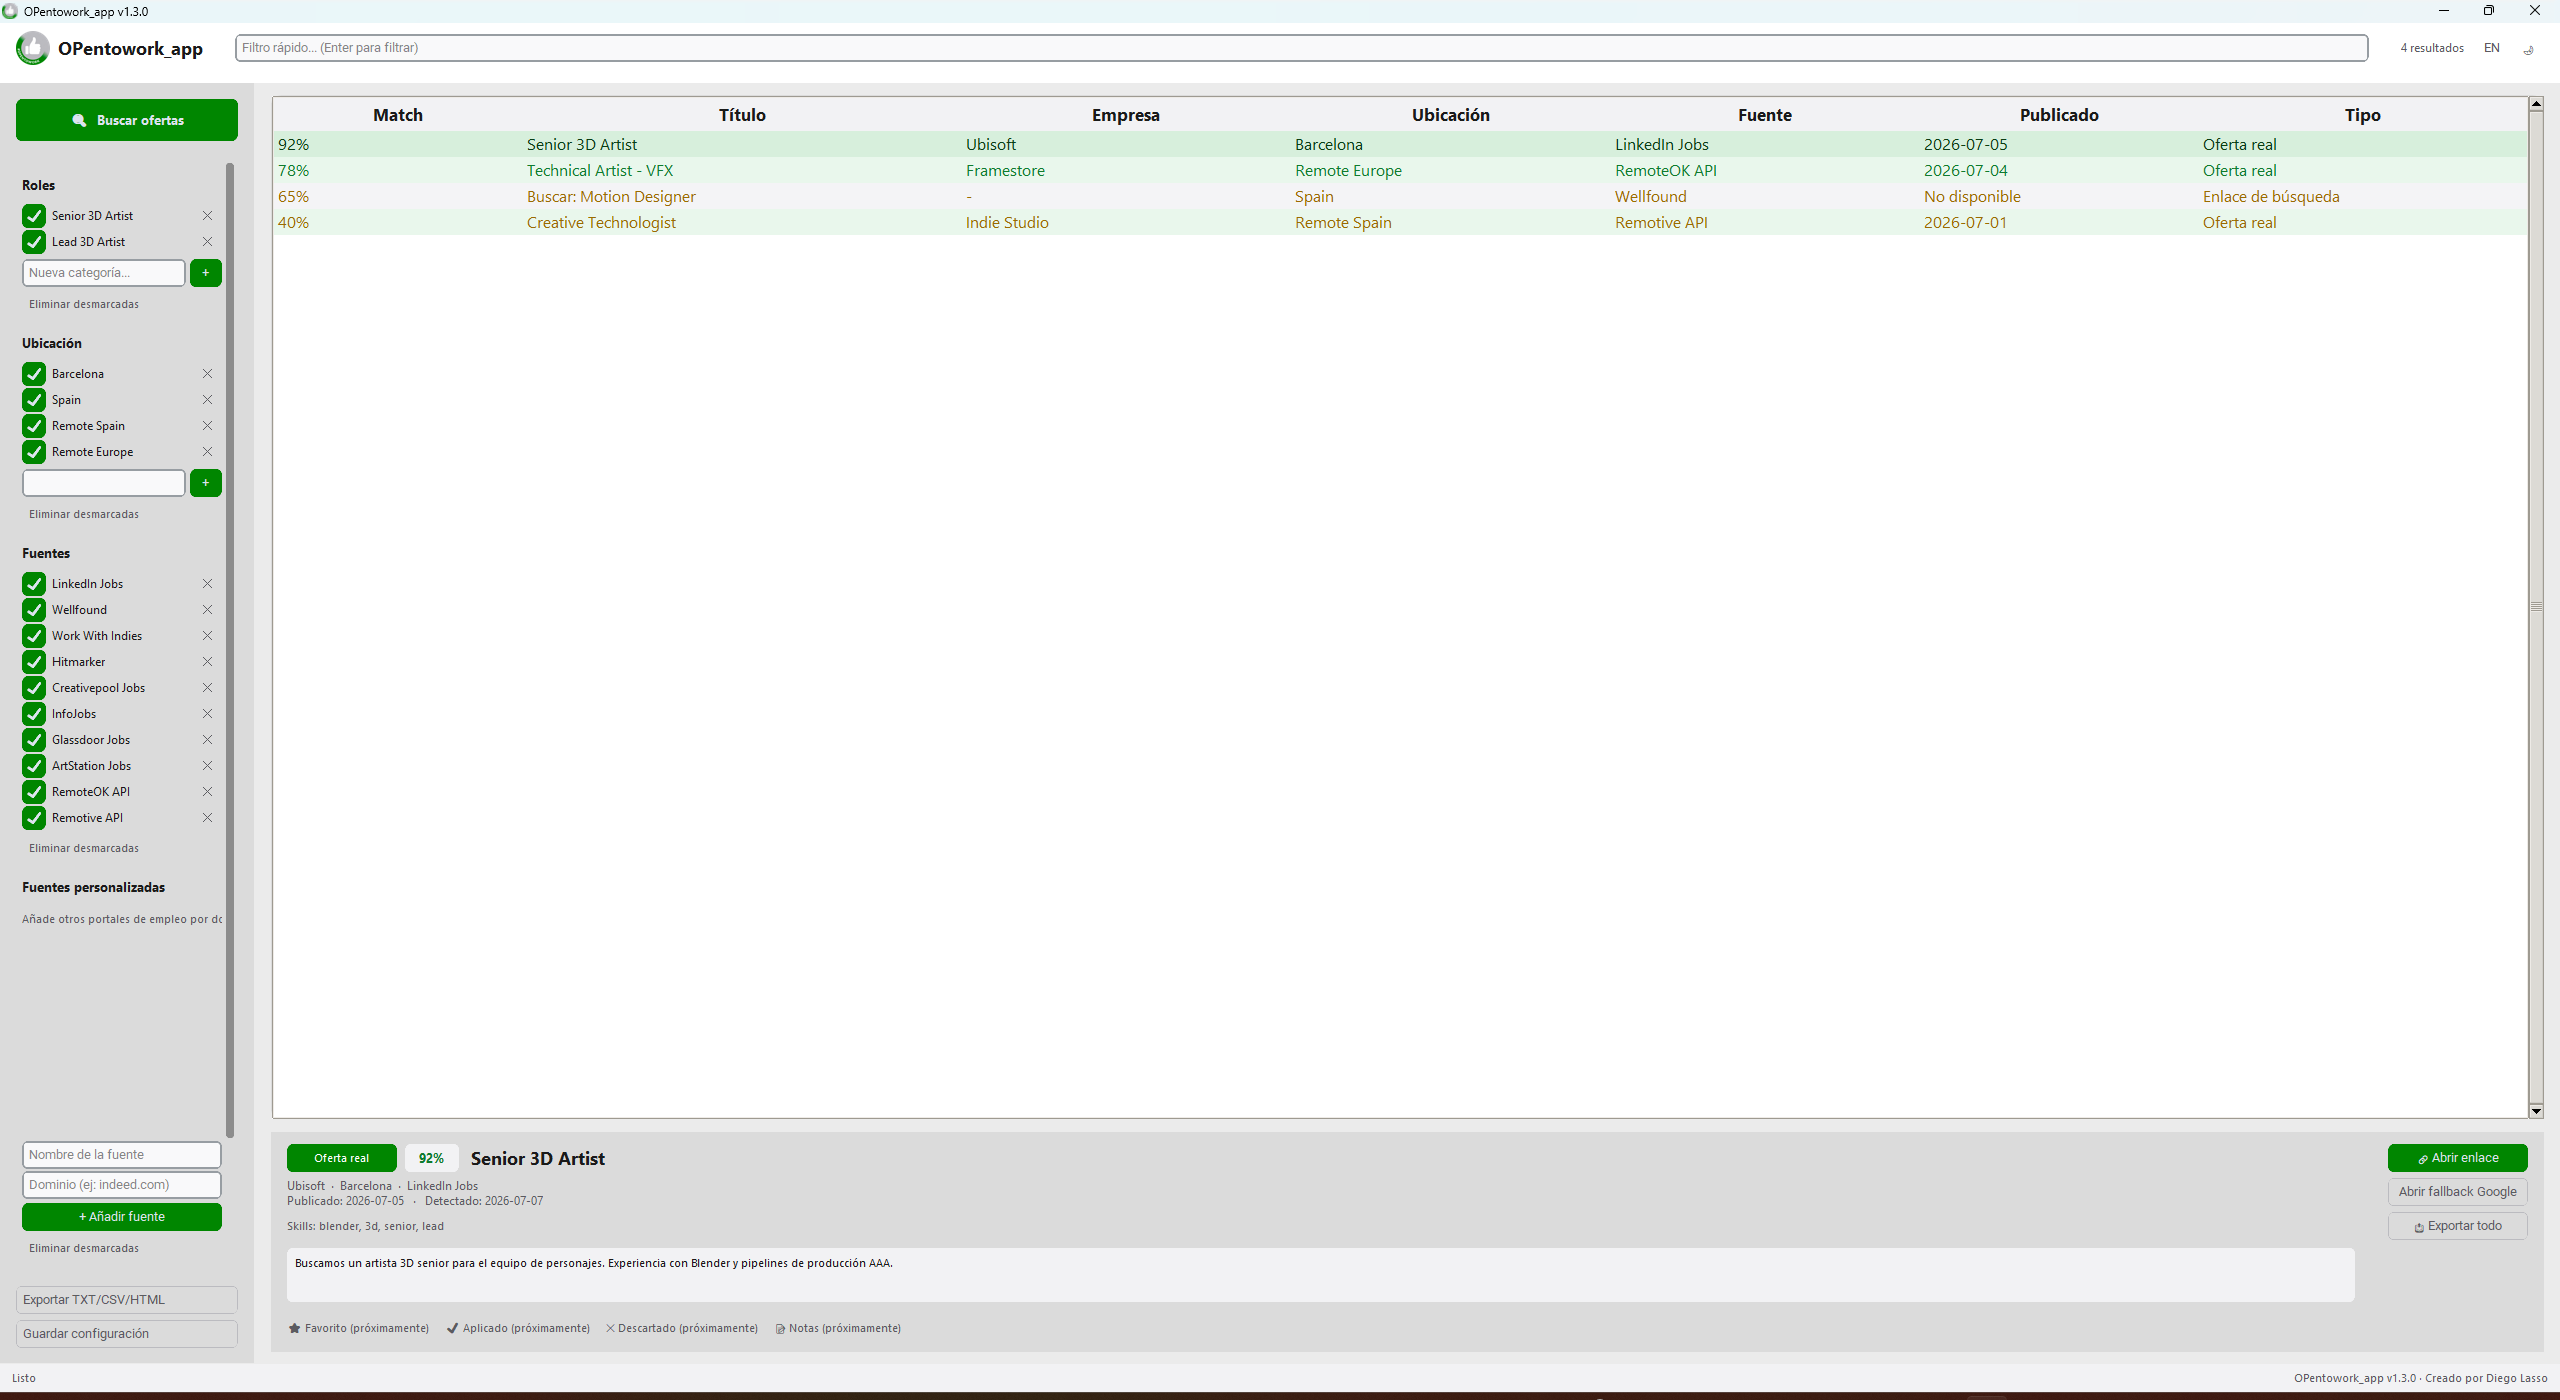
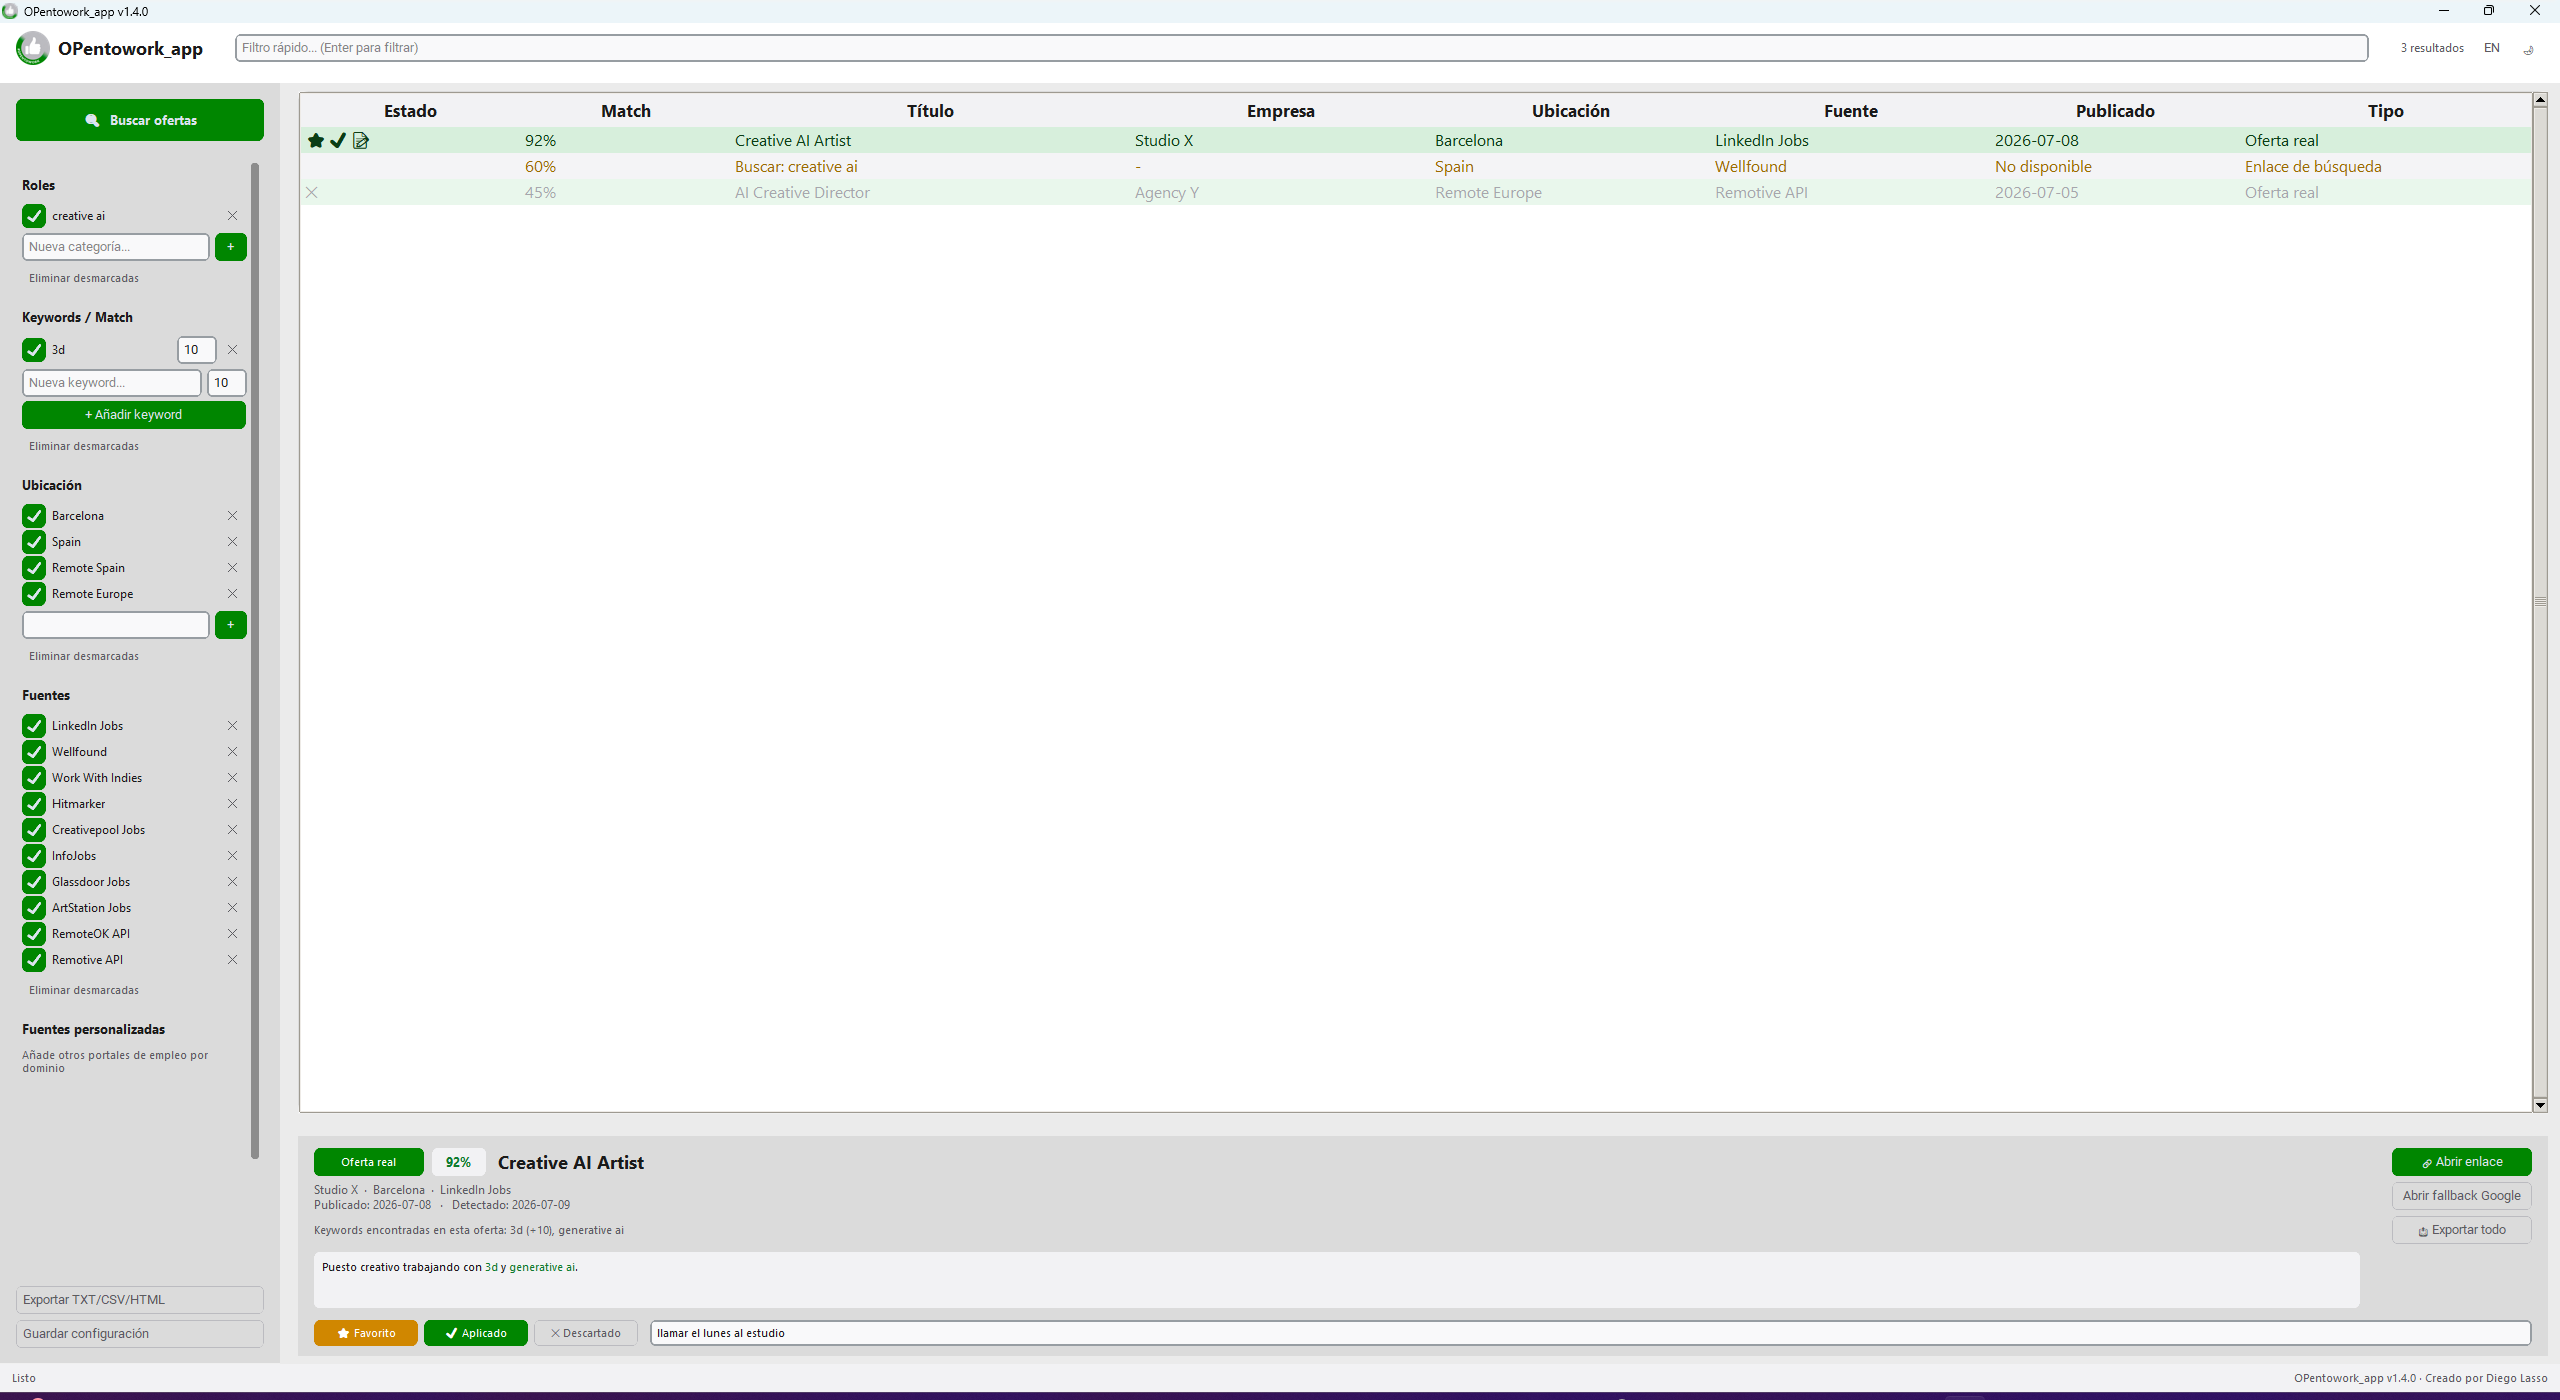
Bump version to 1.4.0 and refresh the README screenshot
Everything shipped since the original 1.3.0 (CustomTkinter UI,
ES/EN language toggle, resizable panels, role-relevance filtering,
keyword-to-description linking, and per-offer tracking) warrants a
minor version bump ahead of the first GitHub release. The README
screenshot now shows the current UI: Estado column with tracking
icons, active Favorito/Aplicado buttons, notes field, highlighted
keywords, and the reordered sidebar.

diff --git a/constants.py b/constants.py
@@ -1,7 +1,7 @@
 from pathlib import Path
 
 APP_NAME = "OPentowork_app"
-APP_VERSION = "1.3.0"
+APP_VERSION = "1.4.0"
 APP_AUTHOR = "Diego Lasso"
 BASE_DIR = Path(__file__).resolve().parent
 